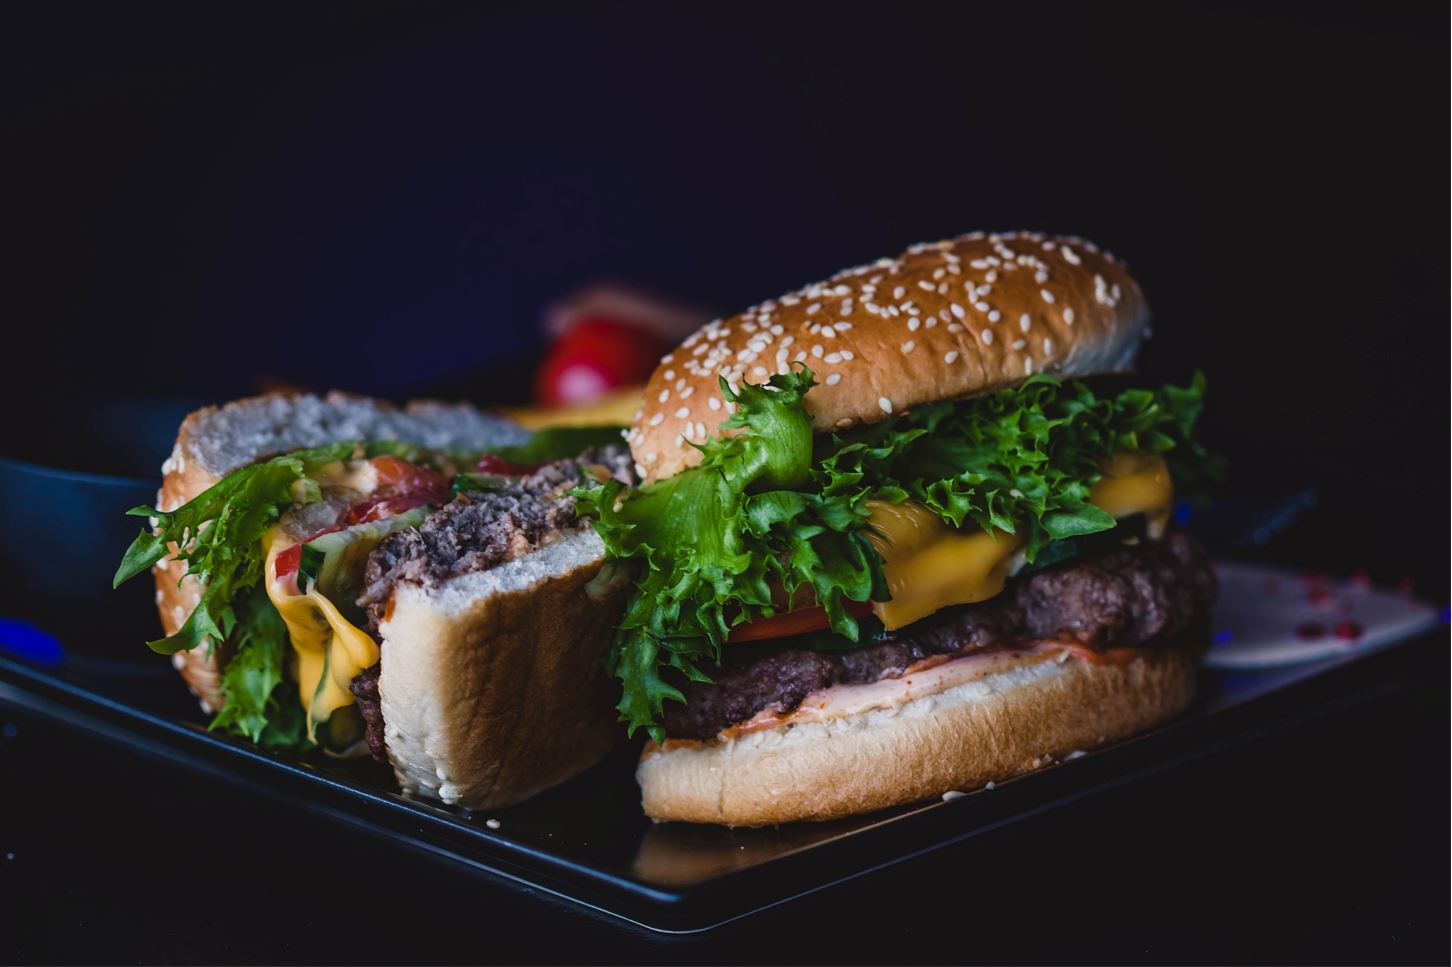
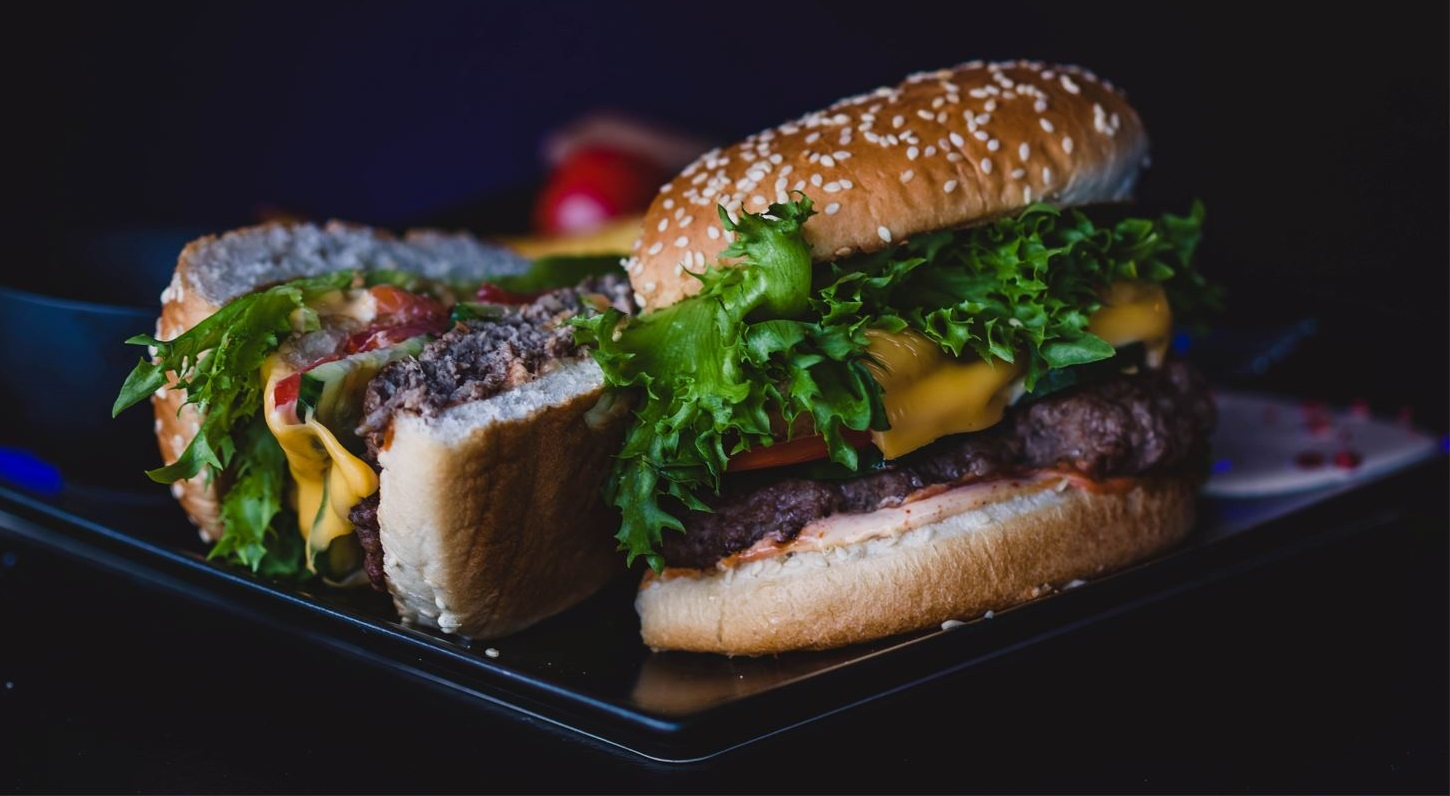
ultimo cambio antes de probar

diff --git a/src/pages/Home.js b/src/pages/Home.js
@@ -1,7 +1,21 @@
 import React from 'react'
+import { Footer } from '../components/Footer'
+import { Navbar } from '../components/Navbar'
+import './home.css'
+import letrero from '../images/lol3.png'
 
 export const Home = () => {
 return (
-    <div>Home</div>
+    <div>
+        <Navbar/>
+        <div className='Bodyy'>
+        <img src={letrero} className='letreto'/>
+        <div className='charla'>
+        <p>Una hamburguesa es un sándwich hecho a base de carne molida o de origen vegetal, aglutinada en forma de filete cocinado a la parrilla o a la plancha, aunque también puede freírse u hornearse. Fuera del ámbito de habla hispana, es más común encontrar la denominación estadounidense burger, acortamiento de hamburger. Se presenta en un pan ligero partido en dos que posee forma de óvalo. Suele estar acompañada de aros de cebolla, hojas de lechuga, alguna rodaja de tomate, láminas de encurtidos y papas fritas. Se suele aliñar con algún condimento, como puede ser la salsa de tomate (o kétchup), la mostaza, el relish, o la mayonesa, entre otros.En el caso de que se ponga una lámina de queso procesado, se convierte en una hamburguesa con queso</p>
+        </div>
+
+        </div>
+        <Footer/>
+    </div>
 )
 }

diff --git a/src/pages/home.css b/src/pages/home.css
@@ -1,0 +1,27 @@
+.Bodyy{
+    width: 100%;
+    height: 600px;
+    background-image:url(../images/pexels-valeria-boltneva-1199960.jpg);
+    background-repeat: no-repeat;
+    background-size: cover  ;
+    color: rgb(209, 203, 203);
+    display: flex;
+    flex-direction: column;
+    align-items: center;
+
+}
+
+.letreto{
+    width: 80%;
+    max-width: 500px;
+}
+.charla{
+    width: 80%;
+    max-width: 500px;
+    height: auto;
+    background-color: rgb(0, 0, 0);
+    border-radius: 10px;
+    text-align: center;
+    padding: 10px;
+    border: 1px solid rgb(148, 148, 143);
+}

diff --git a/src/App.js b/src/App.js
@@ -1,13 +1,19 @@
 import './App.css';
+import { BrowserRouter , Route , Routes } from 'react-router-dom';
 import { Navbar } from './components/Navbar';
 import { Footer } from './components/Footer';
+import { Home } from './pages/Home';
 
 function App() {
   return (
-    <div className="App">
-      <Navbar/>
-      <Footer/>
-    </div>
+
+    <BrowserRouter>
+    <Routes>
+    <Route path='/' element={<Home/>} />
+    </Routes>
+    </BrowserRouter>
+
+    
   );
 }
 

diff --git a/src/components/footer.css b/src/components/footer.css
@@ -1,4 +1,22 @@
-.logi{
-    width: 140px;
+.ffooter{
+    width: 100%;
+    
+    display: flex;
+    justify-content: space-around;
+    align-items: center;
+    background-color: rgb(0, 0, 0);
 }
 
+.logi{
+    width: 140px;
+    border: 3px solid rgb(207, 147, 16);
+    border-radius: 5px;
+    margin-left: -20px;
+}
+
+
+.mapp{
+    width: 140px;
+    border: 3px solid rgb(207, 147, 16);
+    border-radius: 5px;
+}

diff --git a/src/components/Footer.js b/src/components/Footer.js
@@ -1,5 +1,6 @@
 import React from 'react'
 import logi from '../images/lol.png'
+import map from '../images/maps.JPG'
 import './footer.css'
 
 export const Footer = () => {
@@ -10,7 +11,7 @@ export const Footer = () => {
             
         </div>
         <div>
-        
+          <img src={map} className='mapp'/>
         </div>
     </div>
   )

diff --git a/src/components/Sidebar.js b/src/components/Sidebar.js
@@ -1,0 +1,13 @@
+import {NavLink} from 'react-router-dom'
+
+export const Sidebar = () => {
+return (
+    <div>
+        <ul>
+            <li>
+                <NavLink to='Products'>Productos</NavLink>
+            </li>
+        </ul>
+    </div>
+)
+}

diff --git a/src/components/navbar.css b/src/components/navbar.css
@@ -15,6 +15,8 @@
 
 .logo{
     width: 140px;
+    border: 3px solid rgb(207, 147, 16);
+    border-radius: 5px;
 }
 
 .lefth-div{

diff --git a/src/components/Products.js b/src/components/Products.js
@@ -1,0 +1,7 @@
+import React from 'react'
+
+export const Products = () => {
+return (
+    <div>Products</div>
+)
+}
